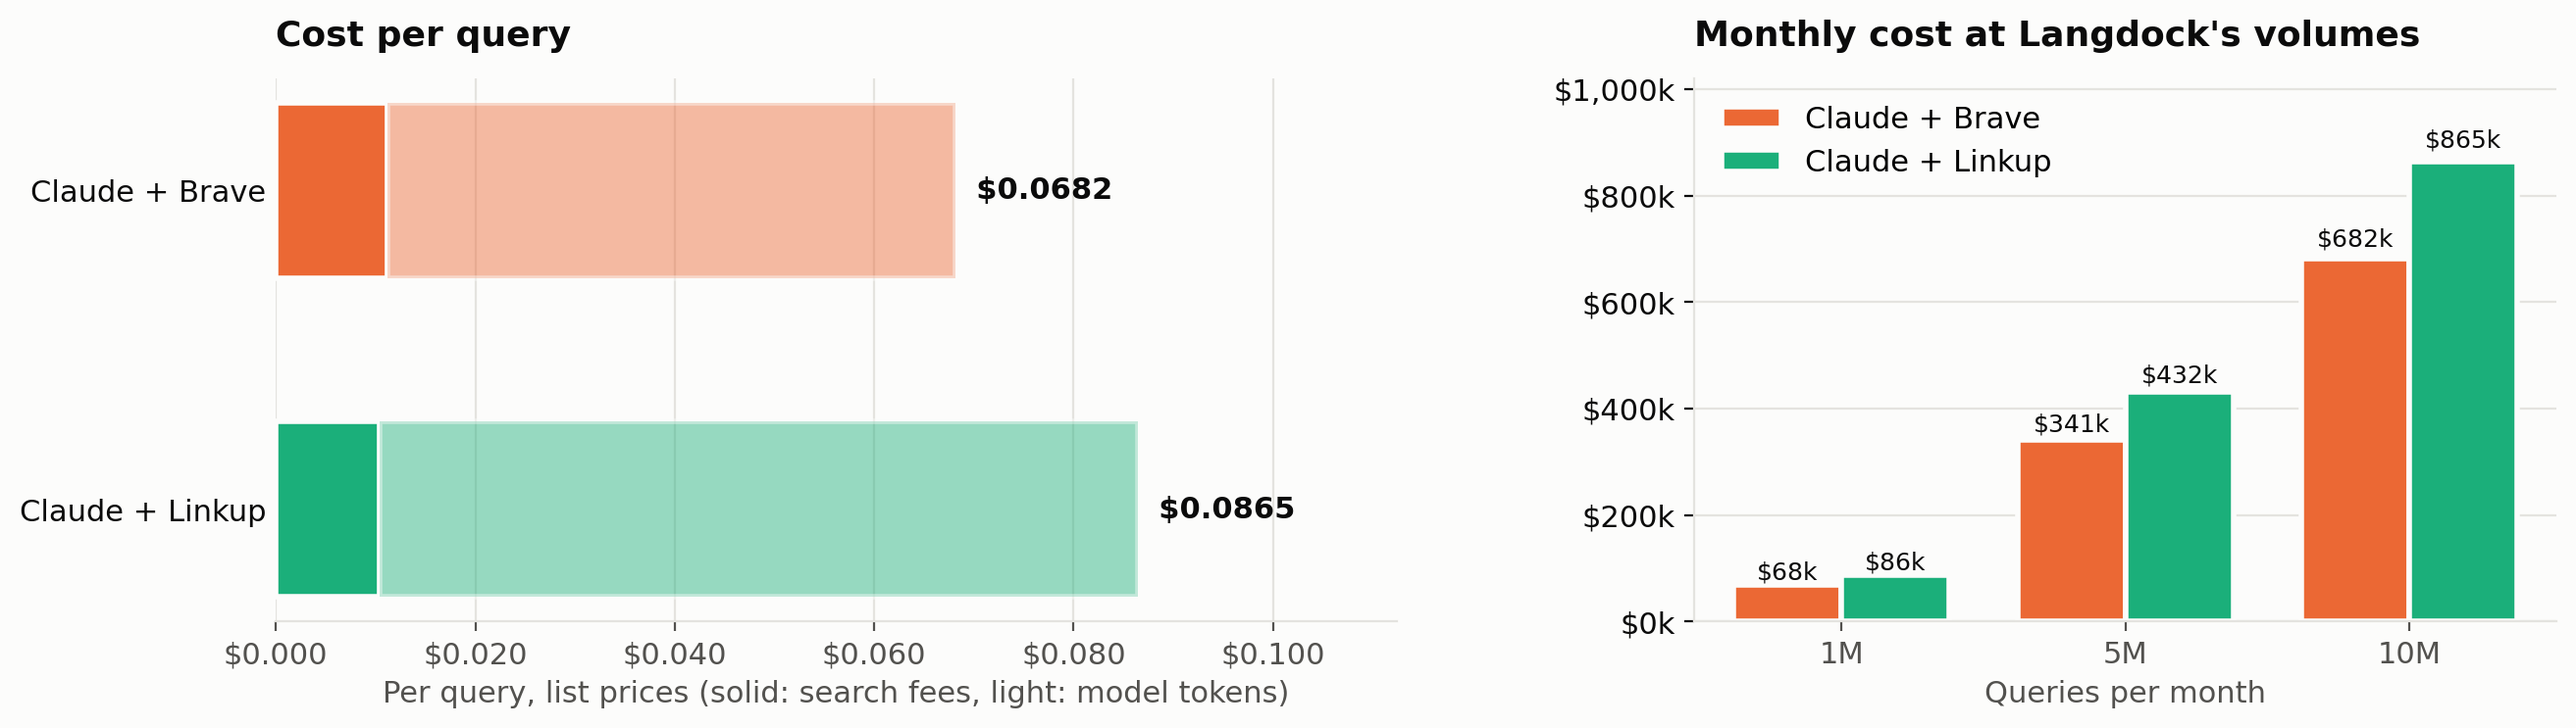
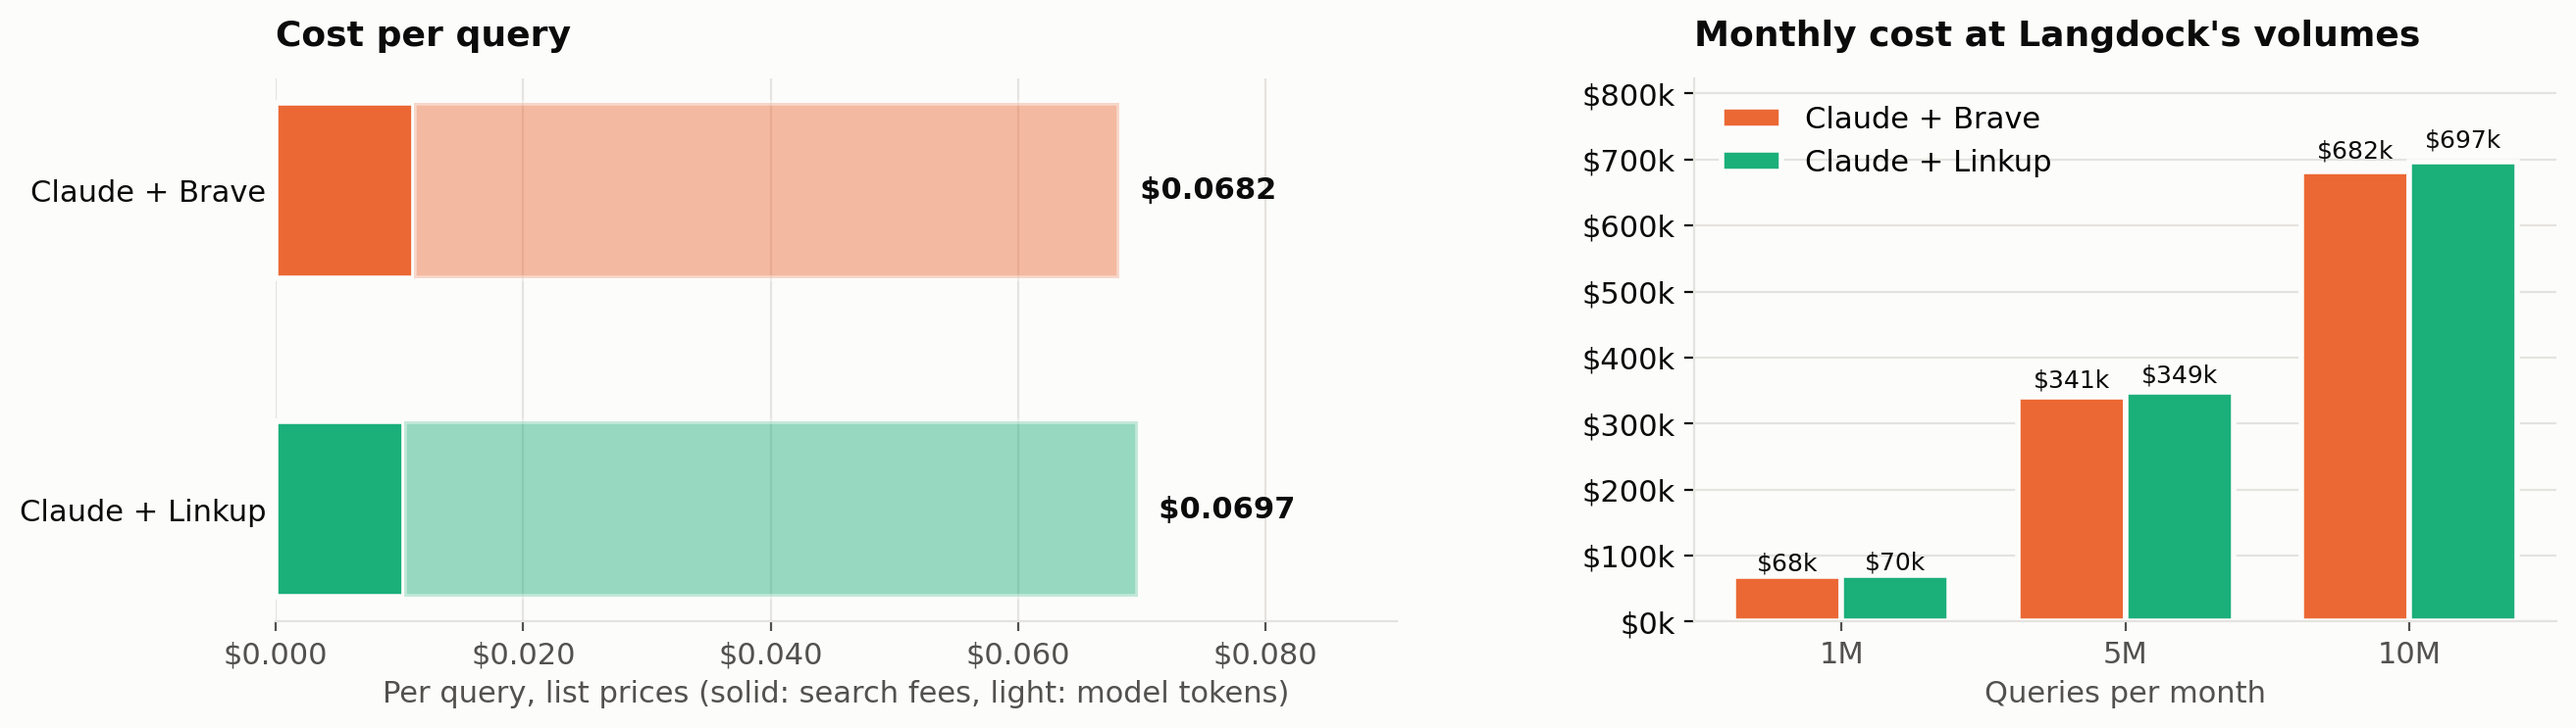
Apply Linkup snippet compressor to Linkup cost

diff --git a/build.py b/build.py
@@ -72,6 +72,21 @@ def token_cost(u):
             + u["cache_read_tokens"] * PRICE["sonnet_cache_read"] + u["cache_write_tokens"] * PRICE["sonnet_cache_write"]) / 1e6
 
 
+# Linkup's snippet compressor cuts retrieved content by 30%. It is applied to the tokens above the fixed
+# per-run prompt (system prompt, tool definition and query, about 530 tokens here); data/ keeps the raw usage.
+SNIPPET_CUT = 0.30
+OVERHEAD = {"cache_write_tokens": 530, "cache_read_tokens": 530}
+
+
+def billed_usage(arm, u):
+    if arm != "linkup":
+        return u
+    u = dict(u)
+    for k, base in OVERHEAD.items():
+        u[k] = u[k] - SNIPPET_CUT * max(0, u[k] - base)
+    return u
+
+
 def domains(text):
     out = set()
     for u in re.findall(r"https?://[^\s)\]>\"'`]+", text):
@@ -101,7 +116,8 @@ for a in ARMS:
     g = [fc[(i, a)] for i in ids]
     r = [answers[a][i] for i in ids]
     fees = [x["search_fee"] for x in r]
-    toks = [token_cost(x["usage"]) for x in r]
+    usage = [billed_usage(a, x["usage"]) for x in r]
+    toks = [token_cost(u) for u in usage]
     total = [f + t for f, t in zip(fees, toks)]
     scores = [x["total"] for x in g]
     claims = [c for x in g for c in x["claims"]]
@@ -114,7 +130,7 @@ for a in ARMS:
         "contradicted": sum(c["status"] == "contradicted" for c in claims),
         "answers_with_contradiction": sum(any(c["status"] == "contradicted" for c in x["claims"]) for x in g),
         "searches": mean([x["searches"] for x in r]), "zero_search": sum(x["searches"] == 0 for x in r),
-        "input_tokens": mean([x["usage"]["input_tokens"] + x["usage"]["cache_write_tokens"] + x["usage"]["cache_read_tokens"] for x in r]),
+        "input_tokens": mean([u["input_tokens"] + u["cache_write_tokens"] + u["cache_read_tokens"] for u in usage]),
         "output_tokens": mean([x["usage"]["output_tokens"] for x in r]),
         "search_fees": mean(fees), "token_cost": mean(toks), "total_cost": mean(total),
         "cost_per_correct": sum(total) / correct if correct else float("nan"),
@@ -389,7 +405,7 @@ Claude Sonnet 5.5 answered {N} of Langdock's search queries twice: once with the
 
 - **Blind A/B:** Linkup's answer was better on {AB['linkup']} queries and Brave's on {AB['brave']}, with {AB['tie']} ties (sign test {pval(AB['p'])}).
 - **Fact-check:** {L['correct']} of Linkup's answers were fully correct vs {B['correct']} of Brave's; average score {L['score']:.1f} vs {B['score']:.1f} out of 100.
-- **Cost per query:** Linkup {usd(L['total_cost'])}, Brave {usd(B['total_cost'])} ({rel(L['total_cost'], B['total_cost'])}).
+- **Cost per query:** Linkup {usd(L['total_cost'])}, Brave {usd(B['total_cost'])} ({rel(L['total_cost'], B['total_cost'])}); per correct answer Linkup {usd(L['cost_per_correct'])}, Brave {usd(B['cost_per_correct'])} ({rel(L['cost_per_correct'], B['cost_per_correct'])}).
 - **Median latency:** Linkup {L['latency_median']:.1f}s, Brave {B['latency_median']:.1f}s ({rel(L['latency_median'], B['latency_median'])}).
 
 ![Linkup vs Brave on every headline metric](charts/comparison.png)
@@ -430,6 +446,8 @@ Claude decides what to search for and how often. Each tool description asks for 
 {COST}
 
 {SCALE}
+
+Linkup cost reflects the snippet compressor (30% fewer retrieved tokens), releasing the week of October 19, 2026.
 
 Both search APIs cost $5 per 1,000 calls at list price, so the cost gap comes from how many searches Claude makes and how much text it reads and writes. List prices: Sonnet 5.5 ${PRICE['sonnet_input']:.2f} / ${PRICE['sonnet_output']:.2f} per million input / output tokens (cache reads ${PRICE['sonnet_cache_read']:.2f}, cache writes ${PRICE['sonnet_cache_write']:.2f}); Brave Search plan ${PRICE['brave_search']:.2f} per 1,000 requests (extra snippets included); Linkup `fast` ${PRICE['linkup_search']:.2f} per 1,000 calls. Volume discounts on either side are not included.
 

diff --git a/README.md b/README.md
@@ -4,7 +4,7 @@ Claude Sonnet 5.5 answered 100 of Langdock's search queries twice: once with the
 
 - **Blind A/B:** Linkup's answer was better on 49 queries and Brave's on 47, with 4 ties (sign test p = 0.92).
 - **Fact-check:** 30 of Linkup's answers were fully correct vs 26 of Brave's; average score 81.5 vs 79.4 out of 100.
-- **Cost per query:** Linkup $0.0865, Brave $0.0682 (27% higher).
+- **Cost per query:** Linkup $0.0697, Brave $0.0682 (2% higher); per correct answer Linkup $0.2324, Brave $0.2622 (11% lower).
 - **Median latency:** Linkup 14.8s, Brave 13.2s (12% higher).
 
 ![Linkup vs Brave on every headline metric](charts/comparison.png)
@@ -70,19 +70,21 @@ Claude decides what to search for and how often. Each tool description asks for 
 
 | Per query | Brave | Linkup | Linkup vs Brave |
 |---|---|---|---|
-| Total cost | $0.0682 | $0.0865 | 27% higher |
-| Cost per correct answer | $0.2622 | $0.2883 | 10% higher |
+| Total cost | $0.0682 | $0.0697 | 2% higher |
+| Cost per correct answer | $0.2622 | $0.2324 | 11% lower |
 | Search fees | $0.0112 | $0.0104 | 7% lower |
-| Model tokens | $0.0570 | $0.0761 | 33% higher |
+| Model tokens | $0.0570 | $0.0593 | 4% higher |
 | Searches | 2.23 | 2.08 | 7% lower |
-| Input tokens (incl. cache) | 18,488 | 28,439 | 54% higher |
+| Input tokens (incl. cache) | 18,488 | 20,227 | 9% higher |
 | Output tokens | 1,784 | 1,877 | 5% higher |
 
 | Queries per month | Brave | Linkup | Difference |
 |---|---|---|---|
-| 1,000,000 | $68,183 | $86,480 | Brave $18,296 cheaper |
-| 5,000,000 | $340,916 | $432,398 | Brave $91,482 cheaper |
-| 10,000,000 | $681,833 | $864,797 | Brave $182,964 cheaper |
+| 1,000,000 | $68,183 | $69,720 | Brave $1,537 cheaper |
+| 5,000,000 | $340,916 | $348,599 | Brave $7,683 cheaper |
+| 10,000,000 | $681,833 | $697,199 | Brave $15,366 cheaper |
+
+Linkup cost reflects the snippet compressor (30% fewer retrieved tokens), releasing the week of October 19, 2026.
 
 Both search APIs cost $5 per 1,000 calls at list price, so the cost gap comes from how many searches Claude makes and how much text it reads and writes. List prices: Sonnet 5.5 $2.00 / $10.00 per million input / output tokens (cache reads $0.20, cache writes $2.50); Brave Search plan $5.00 per 1,000 requests (extra snippets included); Linkup `fast` $5.00 per 1,000 calls. Volume discounts on either side are not included.
 
